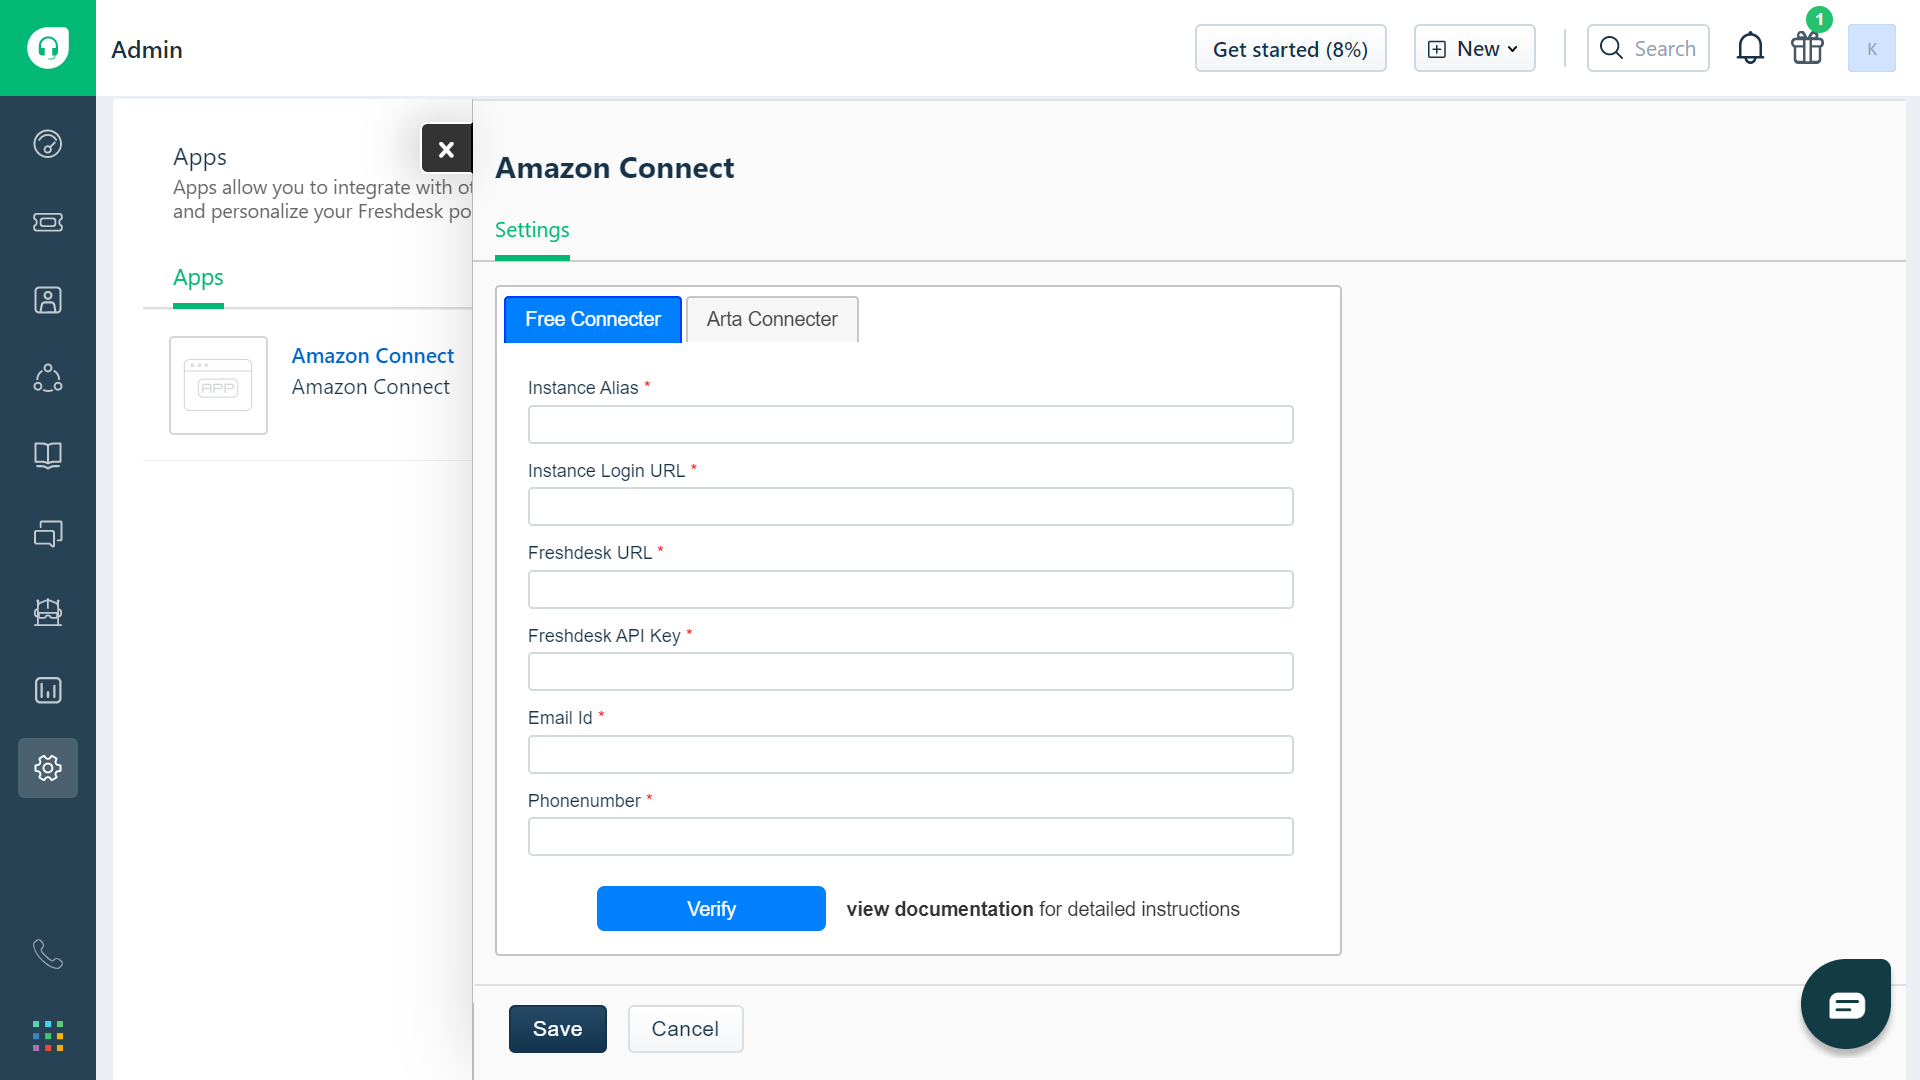
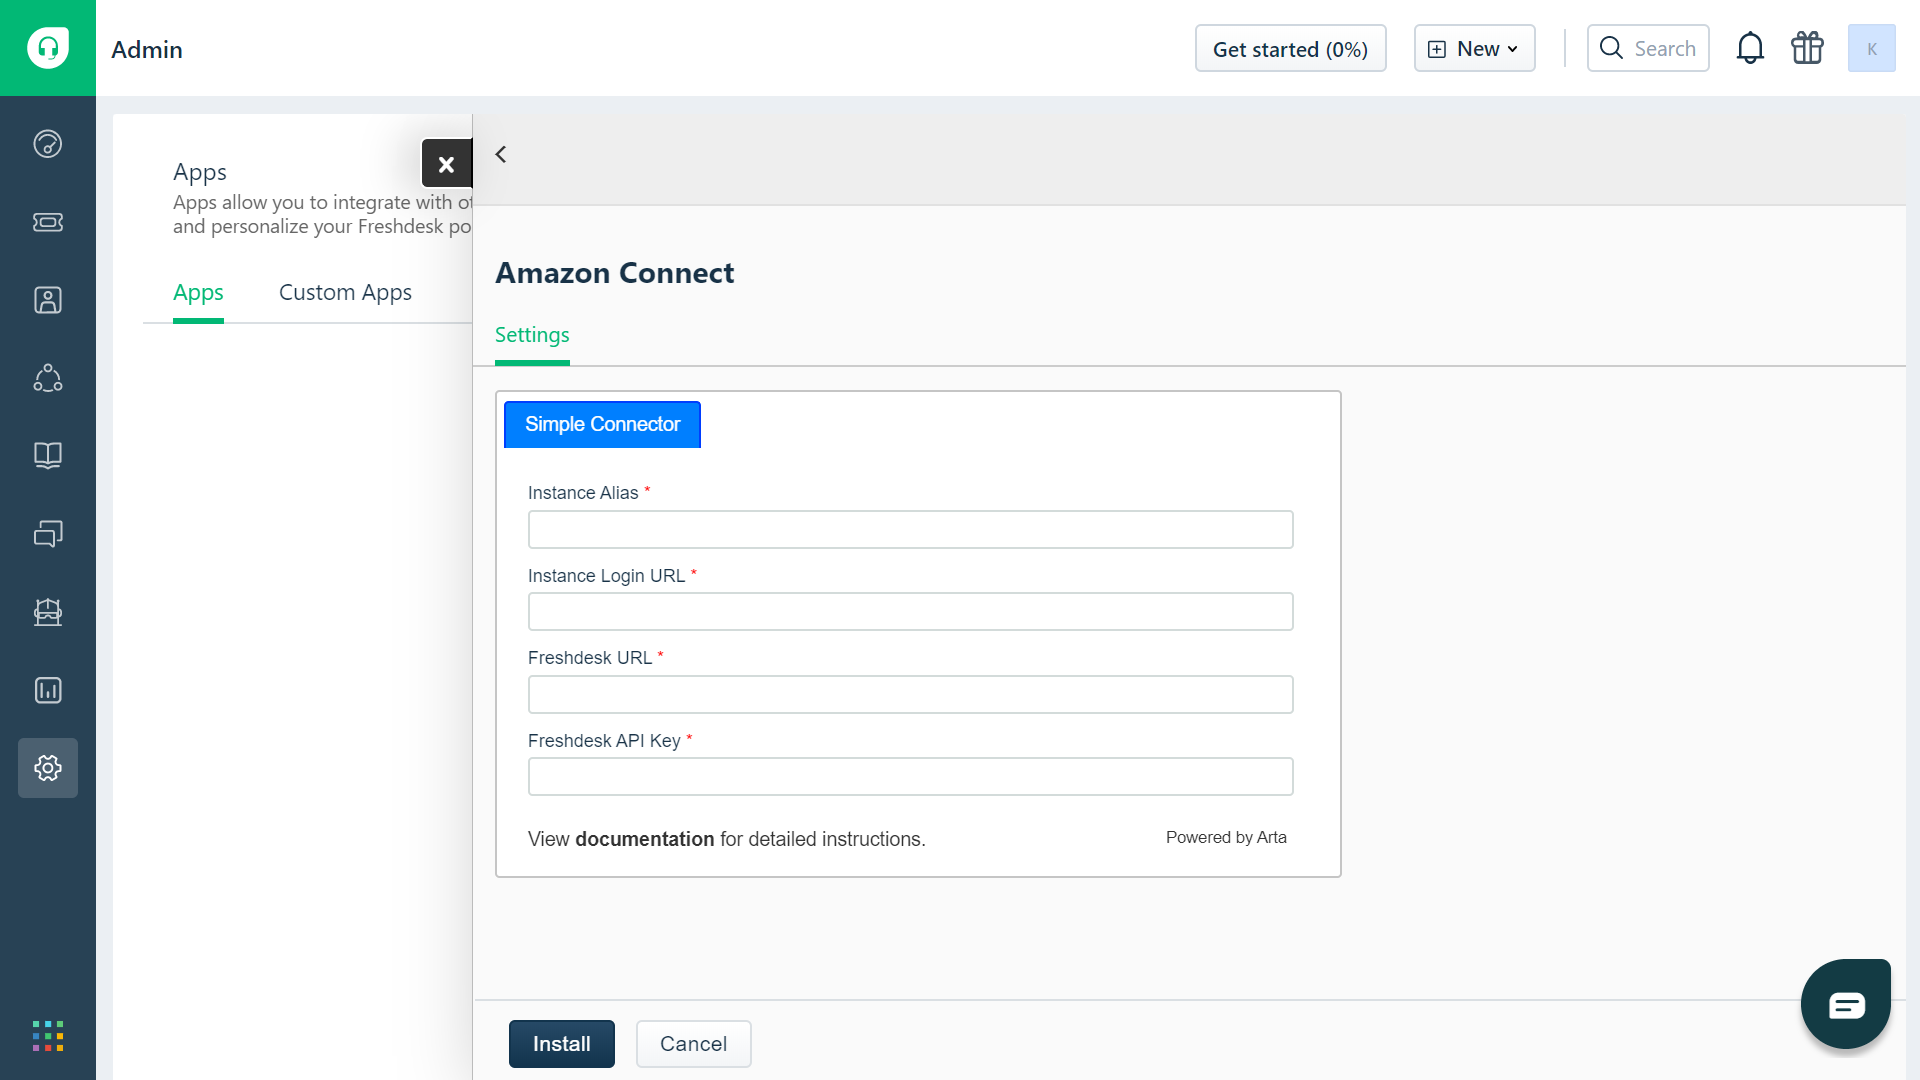
Updated steps to add lambda layer

diff --git a/connectors/initialSetup.md b/connectors/initialSetup.md
@@ -6,13 +6,37 @@ Open the AWS Connect instance setup page and go to `Application integration` tab
 
 > https://ccp.arta.sandeza.io
 
-## Lambda
+## Lambda Setup
 
-### Setup
+### Adding layers
 
-Create new lambda function with basic execution permission with runtime `Node 12.x`  and copy the code from the <a href="https://github.com/Sandeza/arta-freshdesk-integration-lambda" target="_blank">repo</a>.
+Select `layers` on the sidemenu and click `Create Layer` button
+
+![create_layer](images/create_layer.png)
+
+Download the layer files from <a href="https://lambda-layers-1h8d3.s3.ap-south-1.amazonaws.com/freshdesk-integration-layer.zip" target="_blank">S3 link</a>
+
+![layer_configuration](images/layer_configuration.png)
+
+Fillout the fields as required and upload the ZIP file which downloaded before. Select `Node 12.x` as runtime and create the layer.
+
+### Creating Lambda
+
+Create new lambda function with basic execution permission with runtime `Node 12.x`  and copy the code from the <a href="https://github.com/Sandeza/arta-freshdesk-integration-lambda" target="_blank">Github repo</a>.
 
 > Note : Lambda and AWS Connect instance should be in same region
+
+Add layers to lambda by selecting `Layers` under `Designer` tab and click `Add a layer` button as shown below
+
+![add_layer](images/add_layer.png)
+
+Select the layer which you have created before and the layer version then click Add button
+
+![select_layer](images/select_layer.png)
+
+Now the layer was added to lambda as shown below
+
+![layer_added](images/layer_added.png)
 
 Add the environment variables as shown in below image
 

diff --git a/connectors/freshdesk.md b/connectors/freshdesk.md
@@ -49,21 +49,13 @@ Arta Connector blends Amazon Connect and Freshdesk in a perfect way so both the 
 - **Freshdesk API Key** - Enter your Freshdesk API Key. 
     > **Important** : Respective user of API Key which was provided should have access to create ticket.
 
-- **Email Id** - Enter your Email id which you prefered for further communication.
 
-- **Phonenumber** - Enter your Phonenumber which you prefered for further communication.
-    > **Important** : Should start with `+` followed by `country code`
+Once you filled all mandotery fields proceed to Install
 
-    ```text
-    eg : +19876543210
-    ```
-
-Once you filled all mandotery fields then click `Verify button` after the success response proceed to Install
-
-### Arta Connector Installation
+<!-- ### Arta Connector Installation
 
 ![Arta Connector Installation](images/installArtaConnecter.png "Arta Connector Installation")
 
 - **Integration Id** - Enter Arta Freshdesk integration id. You find your Freshdesk integration id in arta platform under Freshdesk Integrations
 
-- **Access Key** - Enter Arta Freshdesk access key. You find your Freshdesk access key in arta platform under Freshdesk Integrations
+- **Access Key** - Enter Arta Freshdesk access key. You find your Freshdesk access key in arta platform under Freshdesk Integrations -->
